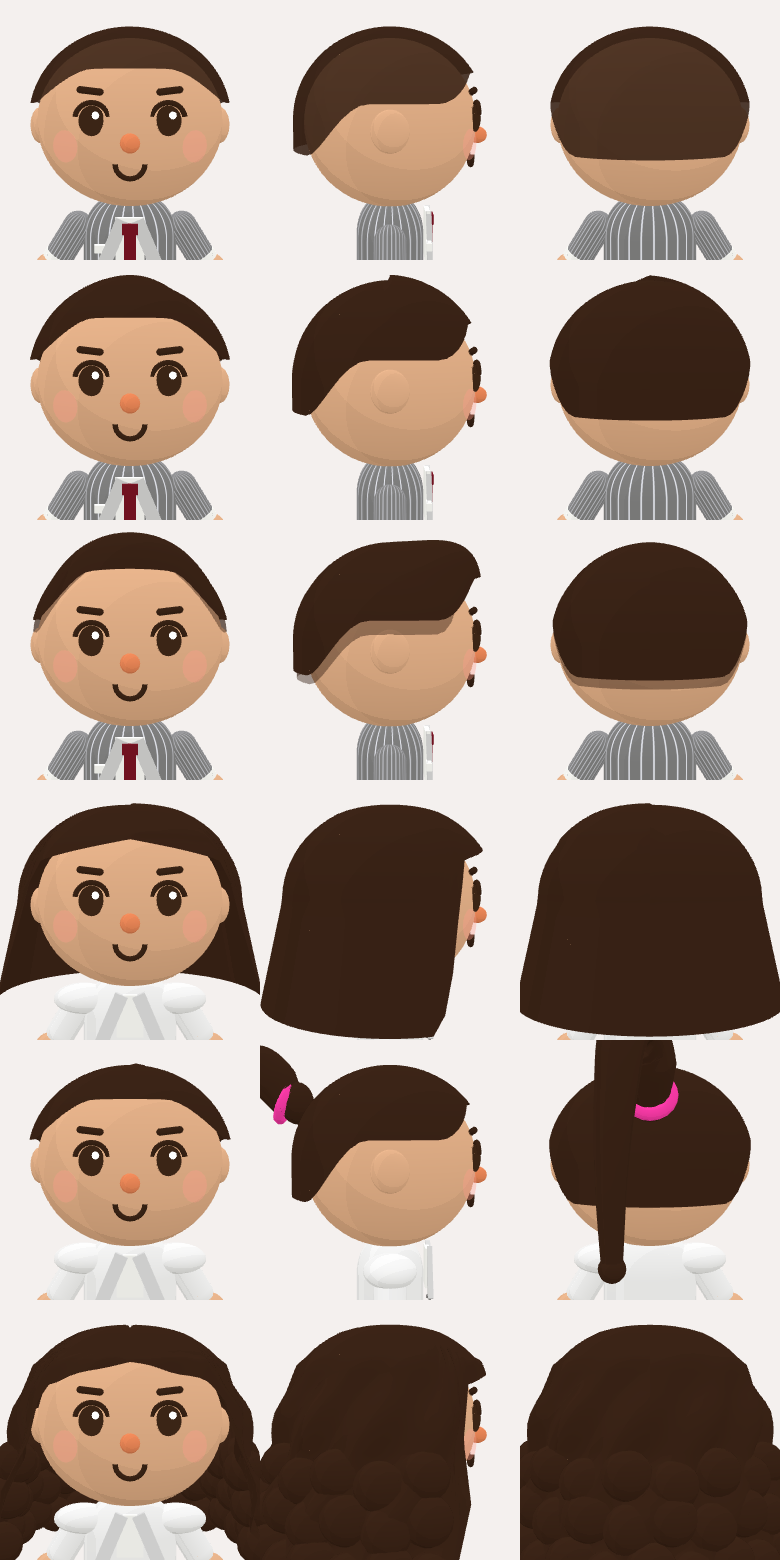
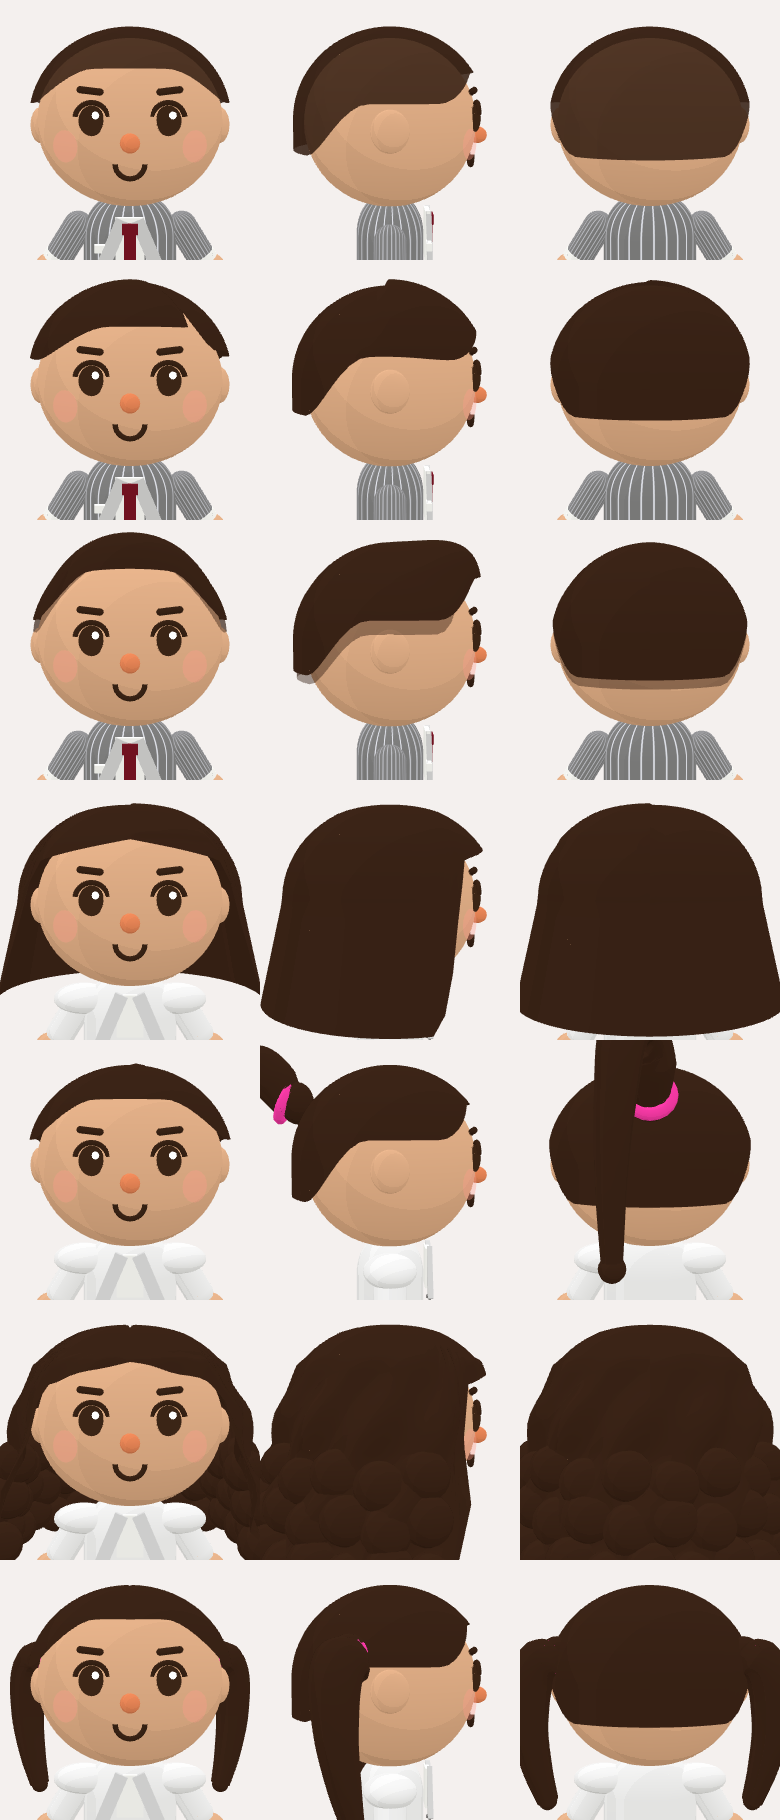
여자 기본머리=양갈래, 기본 의상 어깨 상의색, 구레나룻 전부 제거, 가르마를 스케치처럼(깊은 옆가르마+이마 쪽으로 넘김)

diff --git a/public/world.js b/public/world.js
@@ -218,7 +218,7 @@ const G={sph:(r,ws=28,hs=20)=>new THREE.SphereGeometry(r,ws,hs),cap:(r,l)=>new T
 function mesh(g,m,p=[0,0,0],s=null,r=null){const o=new THREE.Mesh(g,m);o.position.set(...p);if(s)o.scale.set(...s);if(r)o.rotation.set(...r);return o;}
 function makeChibi(opts){const M=chibiMats(opts),f=opts.gender==='f',st=['basic','suit','disco','hanbok','aerobic'].includes(opts.style)?opts.style:'suit';
  const LK=(window.LOOKS?LOOKS.resolve(opts):{top:opts.outfit,bottom:opts.outfit,acc:'none',hair:''});const npc=opts.dj||opts.waiter||!opts.top; // NPC 는 예전 한 가지 색 그대로
- const col=npc?(opts.outfit||OUTFIT_DEFAULTS[f?'f':'m'][st]):LK.top,bcol=npc?col:LK.bottom;opts={...opts,top:col,bottom:bcol,acc:npc?'none':LK.acc,hair:npc?'':LK.hair};
+ const col=npc?(opts.outfit||OUTFIT_DEFAULTS[f?'f':'m'][st]):LK.top,bcol=npc?col:LK.bottom;opts={...opts,top:col,bottom:bcol,acc:npc?'none':LK.acc,hair:npc?'':LK.hair,pig:!npc&&f&&!LK.hair};
  const root=new THREE.Group(),hips=new THREE.Group();hips.position.y=.42;root.add(hips);
  const torso=new THREE.Group();hips.add(torso);
  // 의상별 재질
@@ -260,7 +260,7 @@ function makeChibi(opts){const M=chibiMats(opts),f=opts.gender==='f',st=['basic'
   const wide=st==='hanbok';
   const arm=new THREE.Group();arm.rotation.z=s*.55;a.add(arm);
   arm.add(wide?mesh(G.cyl(.065,.09,.2),sleeve,[0,-.1,0]):mesh(G.cap(.06,.13),sleeve,[0,-.09,0]));
-  if(cuff)arm.add(mesh(G.cyl(.065,.065,.035),cuff,[0,-.18,0]));if(opts.tee)arm.add(mesh(G.cyl(.07,.072,.09),top,[0,-.03,0])); /* 반팔 */
+  if(cuff)arm.add(mesh(G.cyl(.065,.065,.035),cuff,[0,-.18,0]));if(opts.tee){arm.add(mesh(G.cyl(.07,.072,.09),top,[0,-.03,0]));arm.add(mesh(G.sph(.071,18,12),top,[0,.0,0]));} /* 반팔 + 어깨까지 상의색 */
   if(!f&&st==='suit')arm.add(mesh(G.cyl(.062,.062,.03),M.white,[0,-.18,0]));
   arm.add(mesh(G.sph(.07),M.skin,[0,-.24,0]));return a;});
  // 다리
@@ -283,13 +283,12 @@ function makeChibi(opts){const M=chibiMats(opts),f=opts.gender==='f',st=['basic'
  return {root,hips,torso,head,arms,legs,M};}
 function T2(M,c){return M.T(c);}
 function curls(head,H,pts,r){pts.forEach(([x,y,z,k=1])=>head.add(mesh(G.sph(r*k,18,14),H,[x,y,z])));}
-function hair(head,M,o,st){const H=M.hair,f=o.gender==='f';if(o.hair&&!o.dj)return hairPick(head,M,H,o.hair);
+function hair(head,M,o,st){const H=M.hair,f=o.gender==='f';if(o.hair&&!o.dj)return hairPick(head,M,H,o.hair);if(o.pig)return hairPick(head,M,H,'fp'); /* 여자 기본 = 양갈래 */
  if(o.dj||(!f&&st==='disco')){ // 큰 아프로
   head.add(mesh(G.sph(.45,32,24),H,[0,.47,-.17],[1.05,.92,.85]));head.add(mesh(new THREE.SphereGeometry(.335,32,24,0,Math.PI*2,0,Math.PI*.42),H,[0,.33,0]));return;}
  const cap=mesh(new THREE.SphereGeometry(.335,36,22,0,Math.PI*2,0,Math.PI*.42),H,[0,.33,0],[1.04,.97,1.02]);head.add(mesh(new THREE.SphereGeometry(.33,32,24,Math.PI,Math.PI),H,[0,.26,-.005],[1.05,.97,1]));head.add(cap);
  if(!f&&st==='suit'){ // 짧은 옆가르마
-  head.add(mesh(G.sph(.14),H,[.05,.55,.15],[1.9,.6,1]));head.add(mesh(G.sph(.1),H,[-.19,.5,.13],[1,.6,.9]));
-  [-1,1].forEach(s=>head.add(mesh(G.box(.05,.14,.12),H,[s*.3,.32,.02])));return;}
+  head.add(mesh(G.sph(.14),H,[.05,.55,.15],[1.9,.6,1]));head.add(mesh(G.sph(.1),H,[-.19,.5,.13],[1,.6,.9]));return;}
  if(!f&&st==='hanbok'){ // 갓 (차양 넓은 검은 갓 + 높은 모자 + 끈)
   const gat=new THREE.MeshStandardMaterial({color:'#151515',roughness:.6,transparent:true,opacity:.95});
   head.add(mesh(G.cyl(.62,.62,.012,40),gat,[0,.53,0]));head.add(mesh(G.cyl(.16,.18,.3,28),gat,[0,.69,0]));head.add(mesh(G.sph(.16,20,10),gat,[0,.84,0],[1,.25,1]));
@@ -312,7 +311,7 @@ function hair(head,M,o,st){const H=M.hair,f=o.gender==='f';if(o.hair&&!o.dj)retu
 // 헤어 6종 (참고 이미지 스타일): 머리에 딱 붙는 하나로 이어진 매끈한 껍질 + 스타일별 볼륨. 틈/뜬 조각 없음
 const HC={rx:.355,ry:.325,rz:.34,cy:.27};
 function hairShell(tf,o={}){const U=72,V=30,pos=[],idx=[],rx=o.rx||HC.rx,ry=o.ry||HC.ry,rz=o.rz||HC.rz,cy=HC.cy,bump=o.bump||(()=>0),flare=o.flare||0,drop=o.drop||1;
- for(let i=0;i<=U;i++){const ph=Math.PI+i/U*Math.PI*2,f=Math.abs(Math.atan2(Math.sin(ph),Math.cos(ph))),tm=tf(f);
+ for(let i=0;i<=U;i++){const ph=Math.PI+i/U*Math.PI*2,sa=Math.atan2(Math.sin(ph),Math.cos(ph)),f=Math.abs(sa),tm=tf(f,sa);
   for(let j=0;j<=V;j++){const th=j/V*tm,b=1+bump(ph,th,f);let x,y,z;
    if(th<=Math.PI/2){const sn=Math.sin(th);x=rx*b*sn*Math.sin(ph);z=rz*b*sn*Math.cos(ph);y=cy+ry*b*Math.cos(th);}
    else{const d=th-Math.PI/2,k=b*(1+flare*d);x=rx*k*Math.sin(ph);z=rz*k*Math.cos(ph);y=cy-ry*d*drop;}
@@ -327,11 +326,21 @@ function hairPick(head,M,H0,k){const H=H0.clone();H.side=THREE.DoubleSide;H.roug
  const sidePart=(ph,th)=>{const a=Math.atan2(Math.sin(ph),Math.cos(ph));return th<Math.PI*.38?-.05*Math.exp(-(((a-1.0)/.08)**2))*(1-th/(Math.PI*.38)):0;}; // 옆 가르마
  if(k==='m1'){ // 버즈컷(반삭)
   const Bz=H.clone();Bz.transparent=true;Bz.opacity=.88;head.add(mesh(hairShell(line3(P*.33,P*.44,P*.6),{bump:()=>.004}),Bz)); /* 버즈컷(반삭): 두피에 바짝 */return;}
- if(k==='m2'){ // 가르마: 옆 가르마 댄디, 위쪽 부드러운 볼륨
-  add(hairShell(line3(P*.3,P*.43,P*.6),{bump:(ph,th)=>{const a=Math.atan2(Math.sin(ph),Math.cos(ph));const top=.06*Math.max(0,1-th/(P*.42));const sweep=a<1.0&&a>-1.6&&th<P*.34?.06*Math.sin(Math.min(1,(1.0-a)/.3)*P/2)*(1-th/(P*.34)):0; /* 8:2 가르마 */return .015+top+sweep+sidePart(ph,th);}}));return;}
+ if(k==='m2'){ // 가르마 (스케치): 오른쪽 깊은 옆가르마, 큰 쪽은 이마 위로 둥글게 넘기고 왼쪽 관자놀이로 살짝 내려옴, 귀는 보임
+  const pa=.72,base=line3(P*.3,P*.42,P*.6);
+  const tf=(f,a)=>{if(f>P*.5)return base(f);const big=a<pa;let t=big?P*.33+P*.1*sstep(-.2,-1.0,a):P*.4;t-=P*.08*Math.exp(-(((a-pa)/.06)**2)); /* 가르마 자리 V 홈 */const w=sstep(P*.32,P*.5,f);return t*(1-w)+base(f)*w;};
+  add(hairShell(tf,{bump:(ph,th,f)=>{const a=Math.atan2(Math.sin(ph),Math.cos(ph));const pg=th<P*.4?-.07*Math.exp(-(((a-pa)/.06)**2))*(1-th/(P*.4)):0;
+   const vol=f<P*.55?(a<pa?.07:.05)*Math.max(0,1-th/(P*.45))*Math.min(1,Math.abs(a-pa)/.25+.2):0;return .015+vol+pg;}}));return;}
  if(k==='m3'){ // 쉐이브: 옆은 짧게 밀고(페이드) 앞머리를 위로 쓸어올린 볼륨
   add(hairShell(line3(P*.3,P*.43,P*.6),{rx:.348,bump:(ph,th,f)=>{const fr=Math.max(0,Math.cos(f));return .005+.24*fr*fr*Math.exp(-(((th-P*.22)/(P*.12))**2))+.05*Math.max(0,1-th/(P*.3));}}));
   const F=H.clone();F.transparent=true;F.opacity=.45;head.add(mesh(hairShell(line3(P*.2,P*.47,P*.63),{rx:.343,rz:.33,ry:.32}),F));return;}
+ if(k==='fp'){ // 양갈래: 가운데 가르마, 양옆으로 묶어 내린 두 갈래
+  add(hairShell(line3(P*.3,P*.45,P*.62),{bump:(ph,th)=>.02+partGroove(ph,th)}));
+  [-1,1].forEach(sd=>{head.add(mesh(new THREE.TorusGeometry(.045,.018,8,18),M.T('#ff3cac'),[sd*.33,.35,-.12],null,[0,P/2,0]));
+   const c=new THREE.CatmullRomCurve3([[sd*.31,.36,-.12],[sd*.38,.3,-.15],[sd*.4,.14,-.15],[sd*.38,-.02,-.13],[sd*.35,-.14,-.11]].map(q=>new THREE.Vector3(...q)));
+   const tg=new THREE.TubeGeometry(c,32,1,14,false),pa=tg.attributes.position,v=new THREE.Vector3();for(let i=0;i<=32;i++){const t=i/32,q=c.getPoint(t),r=.085*(t<.12?.75+t*2:1-(t-.12)*.65);for(let j=0;j<=14;j++){const n=i*15+j;v.fromBufferAttribute(pa,n).sub(q).multiplyScalar(r).add(q);pa.setXYZ(n,v.x,v.y,v.z);}}
+   tg.computeVertexNormals();add(tg);add(G.sph(.032,12,10),[sd*.35,-.14,-.11]);add(G.sph(.06,14,10),[sd*.31,.36,-.12]);});
+  return;}
  if(k==='f1'){ // 단발: 턱선 길이, 앞 얼굴만 열린 닫힌 형태
   add(hairShell(f=>f<P*.27?P*.31+P*.06*f/(P*.27):f<P*.42?P*.37+(P*.86-P*.37)*sstep(P*.27,P*.42,f):P*.86,{rx:.375,rz:.36,flare:.18,drop:.95,bump:(ph,th)=>.05*Math.min(1,th*2)+(Math.atan2(Math.sin(ph),Math.cos(ph))>0&&th<P*.3?.015:0)}));
   return;}
@@ -347,15 +356,14 @@ function hairPick(head,M,H0,k){const H=H0.clone();H.side=THREE.DoubleSide;H.roug
   for(const [y,k,n] of [[-.15,1.2,15],[-.02,1.13,14],[.1,1.06,12]])for(let q=0;q<n;q++){const ph=P*.42+q/(n-1)*P*1.16;const rr=.38*k;add(G.sph(.075,14,10),[Math.sin(ph)*rr,y+(q%2)*.03,Math.cos(ph)*rr*.96]);} // 파마 컬
   return;}
 }
-// 남자 수염: 까칠/염소/짧은 턱수염/구레나룻/콧수염
+// 남자 수염: 까칠/염소/짧은 턱수염/콧수염 (구레나룻 없음)
 function beard(head,M,k){const P=Math.PI,B=M.hair.clone();B.side=THREE.DoubleSide;const jaw=(t0,tl,op,r=.322)=>{const m=B.clone();if(op<1){m.transparent=true;m.opacity=op;}head.add(mesh(new THREE.SphereGeometry(r,36,14,P/2-.95,1.9,P*t0,P*tl),m,[0,.26,0],[1.06,.96,.98]));};
  const must=()=>[-1,1].forEach(s=>head.add(mesh(G.cap(.014,.045),B,[s*.032,.183,.303],null,[0,0,P/2+s*.25])));
  const goat=()=>head.add(mesh(G.sph(.05,16,12),B,[0,.075,.27],[1,1.1,.6]));
  if(k==='stubble')jaw(.64,.26,.28);
  if(k==='full'){jaw(.66,.25,1,.326);must();}
  if(k==='goatee'){goat();must();}
- if(k==='mustache')must();
- if(k==='sideburns')[-1,1].forEach(s=>head.add(mesh(G.box(.035,.15,.07),B,[s*.315,.22,.07])));}
+ if(k==='mustache')must();}
 // 액세서리: 안경 / 선글라스
 function accessory(head,a){if(!a||a==='none')return;const g=new THREE.Group();g.position.set(0,.275,.33);head.add(g);
  const frame=new THREE.MeshStandardMaterial({color:a==='sunglasses'?'#111':'#3a2a1a',metalness:.5,roughness:.3});

diff --git a/tests/hair.shot.js b/tests/hair.shot.js
@@ -4,11 +4,11 @@ const p=require('puppeteer-core');const W=ms=>new Promise(r=>setTimeout(r,ms));c
  pg.on('pageerror',e=>console.log('ERR',e.message));await pg.goto('http://localhost:'+(process.env.PORT||8080));await pg.waitForFunction(()=>!document.getElementById('enter').disabled,{timeout:120000});
  const shot=async(fn,arg)=>{const url=await pg.evaluate(fn,arg);return Buffer.from(url.split(',')[1],'base64');};
  const R=()=>{window._R=window._R||(()=>{const cv=document.createElement('canvas');const r=new THREE.WebGLRenderer({canvas:cv,antialias:true,preserveDrawingBuffer:true});r.setScissorTest(true);r.setClearColor('#f4f0ee');return r;})();};
- fs.writeFileSync(D+'hair_grid.png',await shot(()=>{const cv=document.createElement('canvas');cv.width=3*260;cv.height=6*260;const r=new THREE.WebGLRenderer({canvas:cv,antialias:true});r.setScissorTest(true);r.setClearColor('#f4f0ee');
+ fs.writeFileSync(D+'hair_grid.png',await shot(()=>{const cv=document.createElement('canvas');cv.width=3*260;cv.height=7*260;const r=new THREE.WebGLRenderer({canvas:cv,antialias:true});r.setScissorTest(true);r.setClearColor('#f4f0ee');
   const sc=new THREE.Scene();sc.add(new THREE.HemisphereLight('#fff','#887',1.3));const dl=new THREE.DirectionalLight('#fff',1.5);dl.position.set(1,2,3);sc.add(dl);const d2=new THREE.DirectionalLight('#fff',.7);d2.position.set(-2,1,-3);sc.add(d2);
-  const list=[['m','m1'],['m','m2'],['m','m3'],['f','f1'],['f','f2'],['f','f3']];
+  const list=[['m','m1'],['m','m2'],['m','m3'],['f','f1'],['f','f2'],['f','f3'],['f','']];
   list.forEach(([g,h],row)=>[0,Math.PI/2,Math.PI].forEach((ry,col)=>{const ch=makeChibi({gender:g,style:'suit',top:'#f5f5f5',bottom:'#1a1a1a',hair:h,acc:'none',skin:'#e8b48c'});ch.root.rotation.y=ry;sc.add(ch.root);
-   const cm=new THREE.PerspectiveCamera(30,1,.1,20);cm.position.set(0,1.36,1.95);cm.lookAt(0,1.22,0);const x=col*260,y=(5-row)*260;r.setViewport(x,y,260,260);r.setScissor(x,y,260,260);r.render(sc,cm);sc.remove(ch.root);}));
+   const cm=new THREE.PerspectiveCamera(30,1,.1,20);cm.position.set(0,1.36,1.95);cm.lookAt(0,1.22,0);const x=col*260,y=(6-row)*260;r.setViewport(x,y,260,260);r.setScissor(x,y,260,260);r.render(sc,cm);sc.remove(ch.root);}));
   return cv.toDataURL();}));
  fs.writeFileSync(D+'alba_front.png',await shot(()=>{const cv=document.createElement('canvas');cv.width=400;cv.height=500;const r=new THREE.WebGLRenderer({canvas:cv,antialias:true});r.setClearColor('#f4f0ee');
   const sc=new THREE.Scene();sc.add(new THREE.HemisphereLight('#fff','#887',1.3));const dl=new THREE.DirectionalLight('#fff',1.5);dl.position.set(1,2,3);sc.add(dl);
@@ -28,7 +28,7 @@ const p=require('puppeteer-core');const W=ms=>new Promise(r=>setTimeout(r,ms));c
    const cm=new THREE.PerspectiveCamera(30,250/420,.1,20);cm.position.set(0,.8,3.6);cm.lookAt(0,.7,0);r.setViewport(i*250,0,250,420);r.setScissor(i*250,0,250,420);r.render(sc,cm);sc.remove(ch.root);});return cv.toDataURL();}));
  fs.writeFileSync(D+'basic_outfit.png',await shot(()=>{const cv=document.createElement('canvas');cv.width=1000;cv.height=420;const r=new THREE.WebGLRenderer({canvas:cv,antialias:true});r.setScissorTest(true);r.setClearColor('#f4f0ee');
   const sc=new THREE.Scene();sc.add(new THREE.HemisphereLight('#fff','#887',1.3));const dl=new THREE.DirectionalLight('#fff',1.5);dl.position.set(1,2,3);sc.add(dl);
-  [['m',{}],['f',{}],['m',{top:'#e0262e',bottom:'#1a1a1a'}],['f',{top:'#ffd400',bottom:'#7b2cbf'}]].forEach(([g,c],i)=>{const ch=makeChibi({...LOOKS.resolve({gender:g,style:'basic',hair:g+'1',...c}),gender:g,style:'basic',skin:'#e8b48c'});sc.add(ch.root);
+  [['m',{top:'#2f9e44'}],['f',{top:'#e0262e'}],['m',{top:'#e0262e',bottom:'#1a1a1a'}],['f',{top:'#ffd400',bottom:'#7b2cbf'}]].forEach(([g,c],i)=>{const ch=makeChibi({...LOOKS.resolve({gender:g,style:'basic',hair:g+'1',...c}),gender:g,style:'basic',skin:'#e8b48c'});sc.add(ch.root);
    const cm=new THREE.PerspectiveCamera(30,250/420,.1,20);cm.position.set(0,.8,3.6);cm.lookAt(0,.7,0);r.setViewport(i*250,0,250,420);r.setScissor(i*250,0,250,420);r.render(sc,cm);sc.remove(ch.root);});return cv.toDataURL();}));
  fs.writeFileSync(D+'hanbok_f.png',await shot(()=>{const cv=document.createElement('canvas');cv.width=1000;cv.height=420;const r=new THREE.WebGLRenderer({canvas:cv,antialias:true});r.setScissorTest(true);r.setClearColor('#f4f0ee');
   const sc=new THREE.Scene();sc.add(new THREE.HemisphereLight('#fff','#887',1.3));const dl=new THREE.DirectionalLight('#fff',1.5);dl.position.set(1,2,3);sc.add(dl);
@@ -36,6 +36,6 @@ const p=require('puppeteer-core');const W=ms=>new Promise(r=>setTimeout(r,ms));c
    const cm=new THREE.PerspectiveCamera(30,250/420,.1,20);cm.position.set(0,.8,3.6);cm.lookAt(0,.7,0);r.setViewport(i*250,0,250,420);r.setScissor(i*250,0,250,420);r.render(sc,cm);sc.remove(ch.root);});return cv.toDataURL();}));
  fs.writeFileSync(D+'faces.png',await shot(()=>{const cv=document.createElement('canvas');cv.width=6*200;cv.height=2*220;const r=new THREE.WebGLRenderer({canvas:cv,antialias:true});r.setScissorTest(true);r.setClearColor('#f4f0ee');
   const sc=new THREE.Scene();sc.add(new THREE.HemisphereLight('#fff','#887',1.3));const dl=new THREE.DirectionalLight('#fff',1.5);dl.position.set(1,2,3);sc.add(dl);
-  const B=['','stubble','goatee','full','sideburns','mustache'];[['m',0],['f',1]].forEach(([g,row])=>[0,1,2,3,4,5].forEach(i=>{const o={gender:g,style:'basic',hair:g==='m'?'m2':'f1',face:i%5,beard:g==='m'?B[i]:''};const ch=makeChibi({...LOOKS.resolve(o),gender:g,style:'basic',skin:'#e8b48c'});sc.add(ch.root);
+  const B=['','stubble','goatee','full','mustache',''];[['m',0],['f',1]].forEach(([g,row])=>[0,1,2,3,4,5].forEach(i=>{const o={gender:g,style:'basic',hair:g==='m'?'m2':'f1',face:i%5,beard:g==='m'?B[i]:''};const ch=makeChibi({...LOOKS.resolve(o),gender:g,style:'basic',skin:'#e8b48c'});sc.add(ch.root);
    const cm=new THREE.PerspectiveCamera(30,200/220,.1,20);cm.position.set(0,1.3,1.75);cm.lookAt(0,1.22,0);const y=(1-row)*220;r.setViewport(i*200,y,200,220);r.setScissor(i*200,y,200,220);r.render(sc,cm);sc.remove(ch.root);}));return cv.toDataURL();}));
  console.log('hair shot done');await b.close();process.exit(0);})().catch(e=>{console.error(e);process.exit(1);});

diff --git a/tests/looks.test.js b/tests/looks.test.js
@@ -10,6 +10,7 @@ r=L.resolve({gender:'m',style:'suit',top:'#e0262e',bottom:'#1a1a1a',acc:'sunglas
 r=L.resolve({gender:'f',hair:'m2',acc:'crown',top:'red'});a.strictEqual(r.hair,'');a.strictEqual(r.acc,'none');a.strictEqual(r.top,L.DEF.f.suit[0]);
 a.strictEqual(L.resolve({}).style,'suit');
 a.strictEqual(L.STYLES[0],'basic','기본 first');r=L.resolve({gender:'f',style:'basic'});a.deepStrictEqual([r.top,r.bottom],['#f5f5f5','#2f7bff']);r=L.resolve({gender:'m',style:'basic',top:'#e0262e',bottom:'#1a1a1a'});a.deepStrictEqual([r.style,r.top,r.bottom],['basic','#e0262e','#1a1a1a']);
+a(!L.BEARDS.includes('sideburns'));a.strictEqual(L.resolve({gender:'m',beard:'sideburns'}).beard,'','old sideburns → none');
 r=L.resolve({gender:'m',face:3,beard:'goatee'});a.deepStrictEqual([r.face,r.beard],[3,'goatee']);r=L.resolve({gender:'f',face:9,beard:'full'});a.deepStrictEqual([r.face,r.beard],[0,''],'female no beard, bad face→0');a.deepStrictEqual([L.resolve({}).face,L.resolve({}).beard],[0,''],'old data compat');
 // 서버 동기: 다른 사람에게 상의/하의/액세서리/헤어 전달
 const {io}=require('socket.io-client');const W=ms=>new Promise(x=>setTimeout(x,ms));const U='http://localhost:'+(process.env.PORT||8080);

diff --git a/public/looks.js b/public/looks.js
@@ -8,7 +8,7 @@
             f:{basic:['#f5f5f5','#2f7bff'],suit:['#7b2cbf','#7b2cbf'],disco:['#2f7bff','#2f7bff'],hanbok:['#ffd400','#e0262e'],aerobic:['#f5f5f5','#ff69b4']}};
  const HEX=/^#[0-9a-fA-F]{6}$/;
  // 예전 저장값(outfit 한 가지 색)도 그대로: 옛날 색은 상의로 (여자 한복은 치마가 주색이라 하의로)
- const FACES=5,BEARDS=['','stubble','goatee','full','sideburns','mustache']; // 얼굴 5종, 남자 수염(없음 포함)
+ const FACES=5,BEARDS=['','stubble','goatee','full','mustache']; // 얼굴 5종, 남자 수염(없음 포함)
  function resolve(o){o=o||{};const g=o.gender==='f'?'f':'m',st=STYLES.includes(o.style)?o.style:'suit',d=DEF[g][st];
   const legacy=HEX.test(o.outfit||'')?o.outfit:null,legacyBottom=g==='f'&&st==='hanbok';
   const top=HEX.test(o.top||'')?o.top:(legacy&&!legacyBottom?legacy:d[0]);
